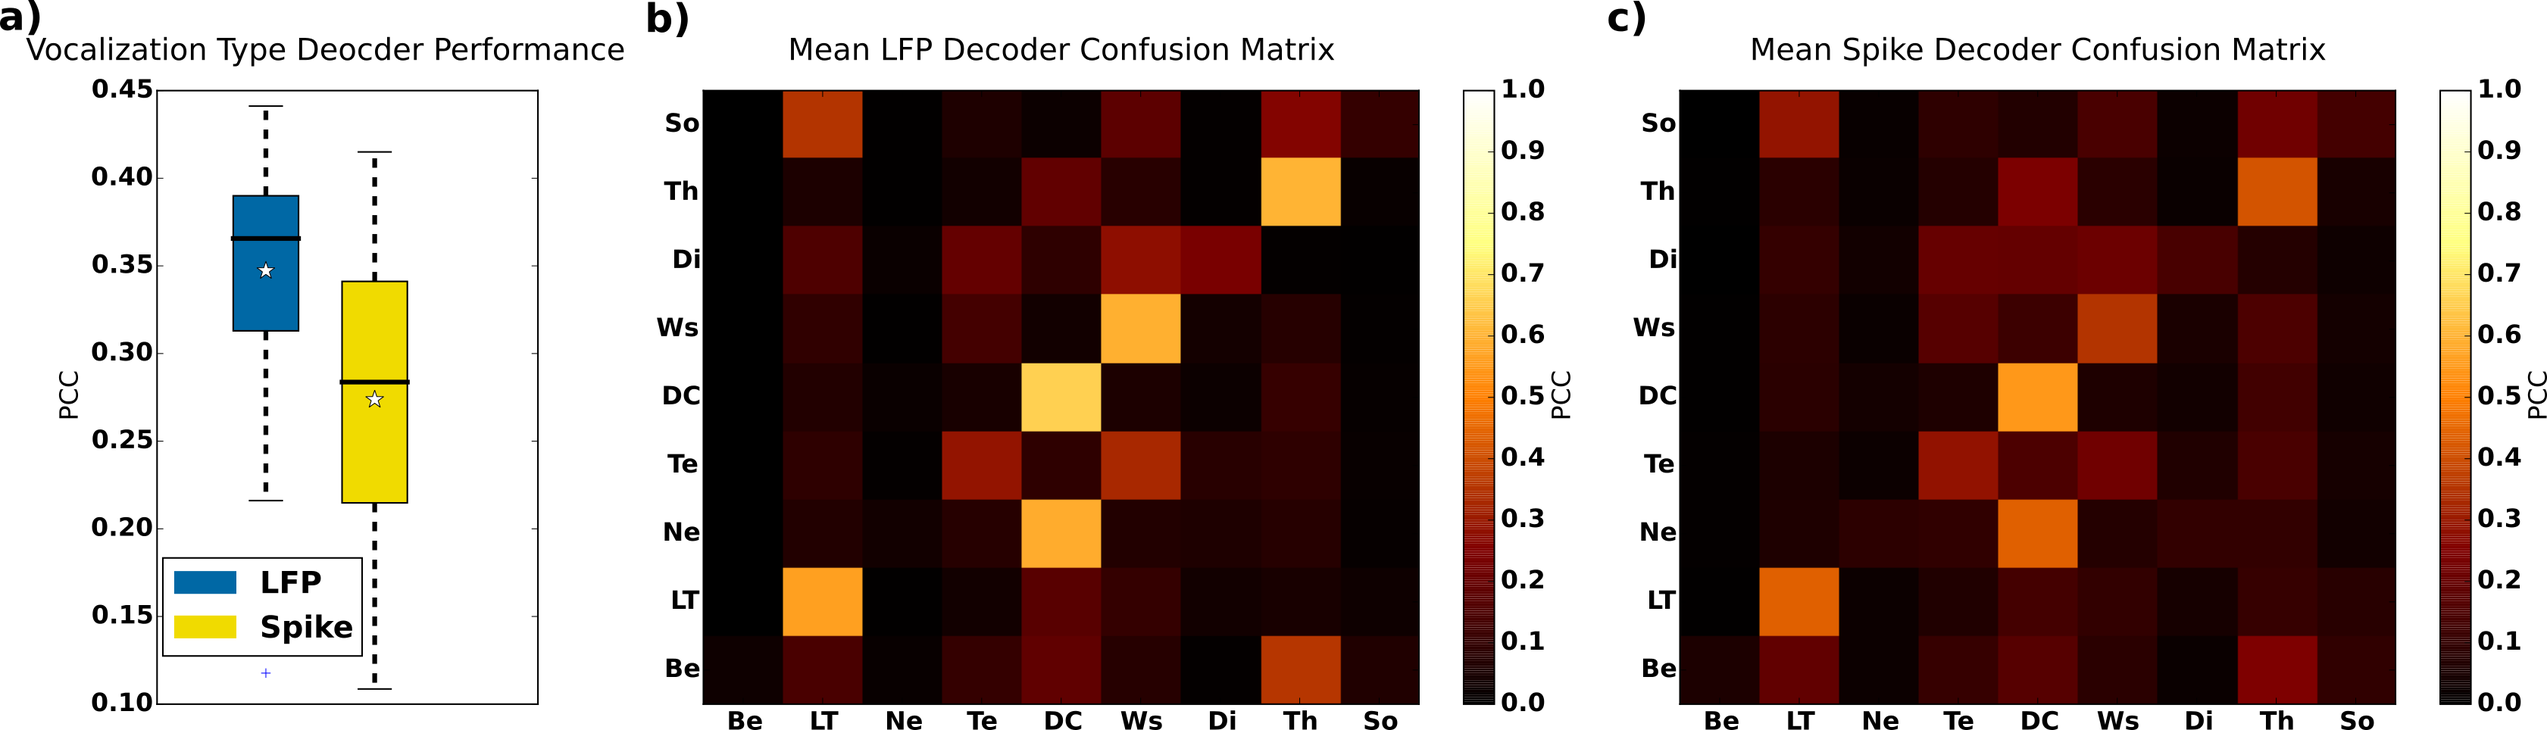
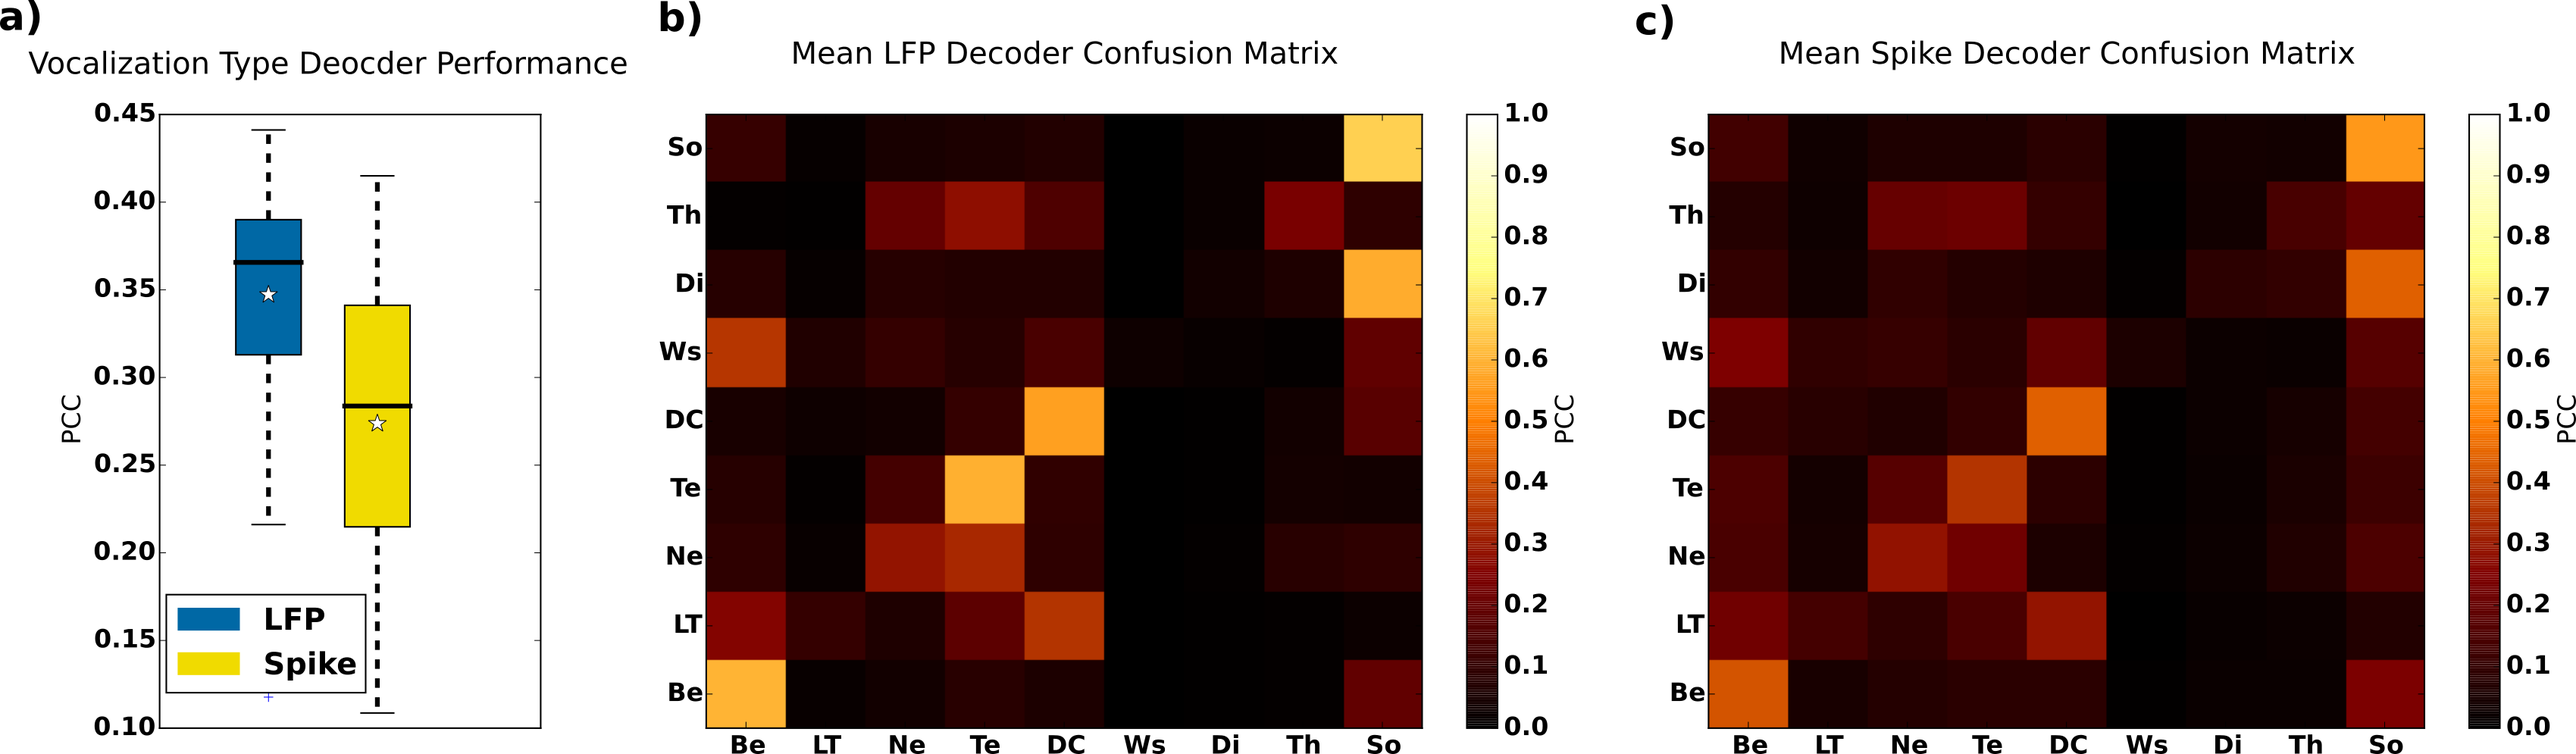
bugfix to confusion matrix plots

diff --git a/DecodingRhythms/results_perf_by_freq/figure.py b/DecodingRhythms/results_perf_by_freq/figure.py
@@ -261,7 +261,16 @@ def draw_category_perf_and_confusion(agg, df_me):
         C = agg.confusion_matrices[ci, :, :]
         Cmean = C.mean(axis=0)
 
-        cmats[decomp] = Cmean
+        cnames = agg.stim_class_names[ci][0]
+
+        # reorder confusion matrix
+        Cro = np.zeros_like(Cmean)
+        for k,cname1 in enumerate(cnames):
+            for j,cname2 in enumerate(cnames):
+                i1 = DECODER_CALL_TYPES.index(cname1)
+                i2 = DECODER_CALL_TYPES.index(cname2)
+                Cro[i1, i2] = Cmean[k, j]
+        cmats[decomp] = Cro
 
     figsize = (24, 6)
     fig = plt.figure(figsize=figsize)
